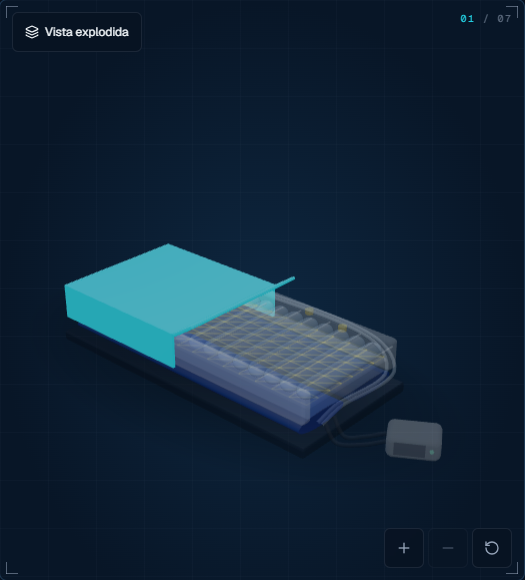
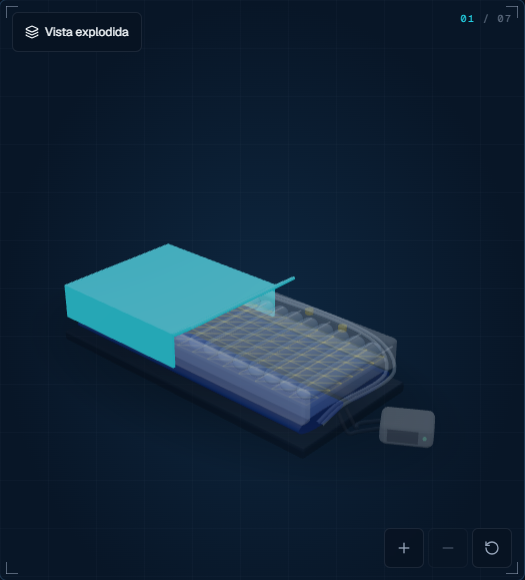
feat(3d): reconstroi colchao conforme referencia do conceito
Celulas transversais A/B em capsula, camaras longitudinais de inclinacao,
espuma em U, capa aberta, controlador externo com tubos e enquadramento
responsivo (FovFit).

Changed region(s): [[0.701, 0.6828, 0.8533, 0.8069]]

diff --git a/src/components/three/Mattress3D.tsx b/src/components/three/Mattress3D.tsx
@@ -8,10 +8,10 @@ import type { LayerId } from '../../lib/simulationEngine'
 
 type Vec3 = [number, number, number]
 
-const CAMERAS: Record<Variant, { position: Vec3; target: Vec3; fov: number }> = {
-  hero: { position: [3.05, 1.85, 2.7], target: [0.25, 0.12, 0], fov: 30 },
-  simulator: { position: [2.55, 1.3, 1.7], target: [0.3, 0.1, 0], fov: 30 },
-  explorer: { position: [3.9, 3.2, 4.0], target: [0.3, 0.62, 0], fov: 32 },
+const CAMERAS: Record<Variant, { position: Vec3; target: Vec3; fov: number; aspect: number }> = {
+  hero: { position: [3.05, 1.85, 2.7], target: [0.25, 0.02, 0], fov: 30, aspect: 1.65 },
+  simulator: { position: [2.75, 1.95, 1.8], target: [0.25, 0.12, 0], fov: 30, aspect: 1.9 },
+  explorer: { position: [3.9, 3.2, 4.0], target: [0.3, 0.62, 0], fov: 32, aspect: 0.85 },
 }
 
 export interface Mattress3DProps {
@@ -57,6 +57,19 @@ function ZoomRig({ zoom, resetKey, position, target }: { zoom: number; resetKey:
   return null
 }
 
+function FovFit({ fov, aspect }: { fov: number; aspect: number }) {
+  const get = useThree((s) => s.get)
+  const current = useThree((s) => s.size.width / Math.max(1, s.size.height))
+
+  useEffect(() => {
+    const cam = get().camera as THREE.PerspectiveCamera
+    const half = Math.tan(THREE.MathUtils.degToRad(fov / 2)) * Math.max(1, aspect / current)
+    cam.fov = THREE.MathUtils.radToDeg(2 * Math.atan(half))
+    cam.updateProjectionMatrix()
+  }, [get, current, fov, aspect])
+  return null
+}
+
 export default function Mattress3D(p: Mattress3DProps) {
   const cam = CAMERAS[p.variant]
   return (
@@ -67,7 +80,7 @@ export default function Mattress3D(p: Mattress3DProps) {
       gl={{ antialias: true, powerPreference: 'high-performance' }}
     >
       <ambientLight intensity={0.35} />
-      <directionalLight position={[2.5, 5, 3.5]} intensity={1.6} color="#FFF3E2" />
+      <directionalLight position={[2.5, 5, 3.5]} intensity={1.6} color="#F4F7FF" />
       <directionalLight position={[-3.5, 1.8, 1]} intensity={0.55} color="#BFD6FF" />
       <directionalLight position={[-1, 2.5, -4]} intensity={0.7} color="#E6F0FF" />
       <Environment resolution={256} frames={1}>
@@ -96,6 +109,7 @@ export default function Mattress3D(p: Mattress3DProps) {
           target={cam.target}
         />
       )}
+      <FovFit fov={cam.fov} aspect={cam.aspect} />
       <ZoomRig zoom={p.zoom} resetKey={p.resetKey} position={cam.position} target={cam.target} />
     </Canvas>
   )

diff --git a/src/components/three/MattressLayers.tsx b/src/components/three/MattressLayers.tsx
@@ -55,12 +55,13 @@ const LINE_Y = 0.08
 const LINE_A_Z = -0.47
 const LINE_B_Z = -0.51
 const COVER_TOP = 0.23
-const CTRL_POS = new THREE.Vector3(1.42, 0, 0)
+const CTRL_POS = new THREE.Vector3(1.32, 0, -0.08)
 const CTRL_YAW = 0.55
 
 const chamberX = (i: number) => (i - (N_UPPER - 1) / 2) * PITCH
-const cellRy = (u: number) => CELL_R * Math.max(u, 0.05)
-const cellSx = (u: number) => Math.min(1, 0.55 + 0.45 * Math.max(u, 0.05))
+const CELL_MIN = 0.25
+const cellRy = (u: number) => CELL_R * Math.max(u, CELL_MIN)
+const cellSx = (u: number) => Math.min(1, 0.55 + 0.45 * Math.max(u, CELL_MIN))
 
 type LayerKey = LayerId | 'base'
 
@@ -176,7 +177,7 @@ const ctrlLocal = (x: number, y: number, z: number) => new THREE.Vector3(x, y, z
 function hoseCurve(k: number) {
   const port = ctrlLocal(-0.15, 0.07, k === 0 ? 0.04 : -0.04)
   const out = ctrlLocal(-0.28, 0.03, k === 0 ? 0.04 : -0.04)
-  const z = 0.26 - 0.08 * k
+  const z = 0.14 - 0.07 * k
   return new THREE.CatmullRomCurve3([new THREE.Vector3(1.0, 0.13, z), new THREE.Vector3(1.08, 0.03, z), out, port])
 }
 
@@ -311,8 +312,8 @@ export default function MattressModel({ variant, reducedMotion, selectedLayer, o
       mesh.position.y = FOAM_TOP + ry
       const m = mats.chambers[i]
       const g = groupOf(i)
-      m.color.copy(showGroups ? (g === 'A' ? C.a : C.b) : C.chamber)
       const faulty = (fault === 'leak' && i === LEAK_CHAMBER) || (fault === 'overpressure' && g === 'A')
+      m.color.copy(faulty ? C.danger : showGroups ? (g === 'A' ? C.a : C.b) : C.chamber)
       if (faulty) setEmissive(m, C.danger, faultPulse)
       else if (active === g) setEmissive(m, C.accent, LOOK.activePulse * pulse)
       else if (variant === 'explorer' && selectedLayer === 'topChambers') setEmissive(m, C.accent, LOOK.selectedEmissive)
